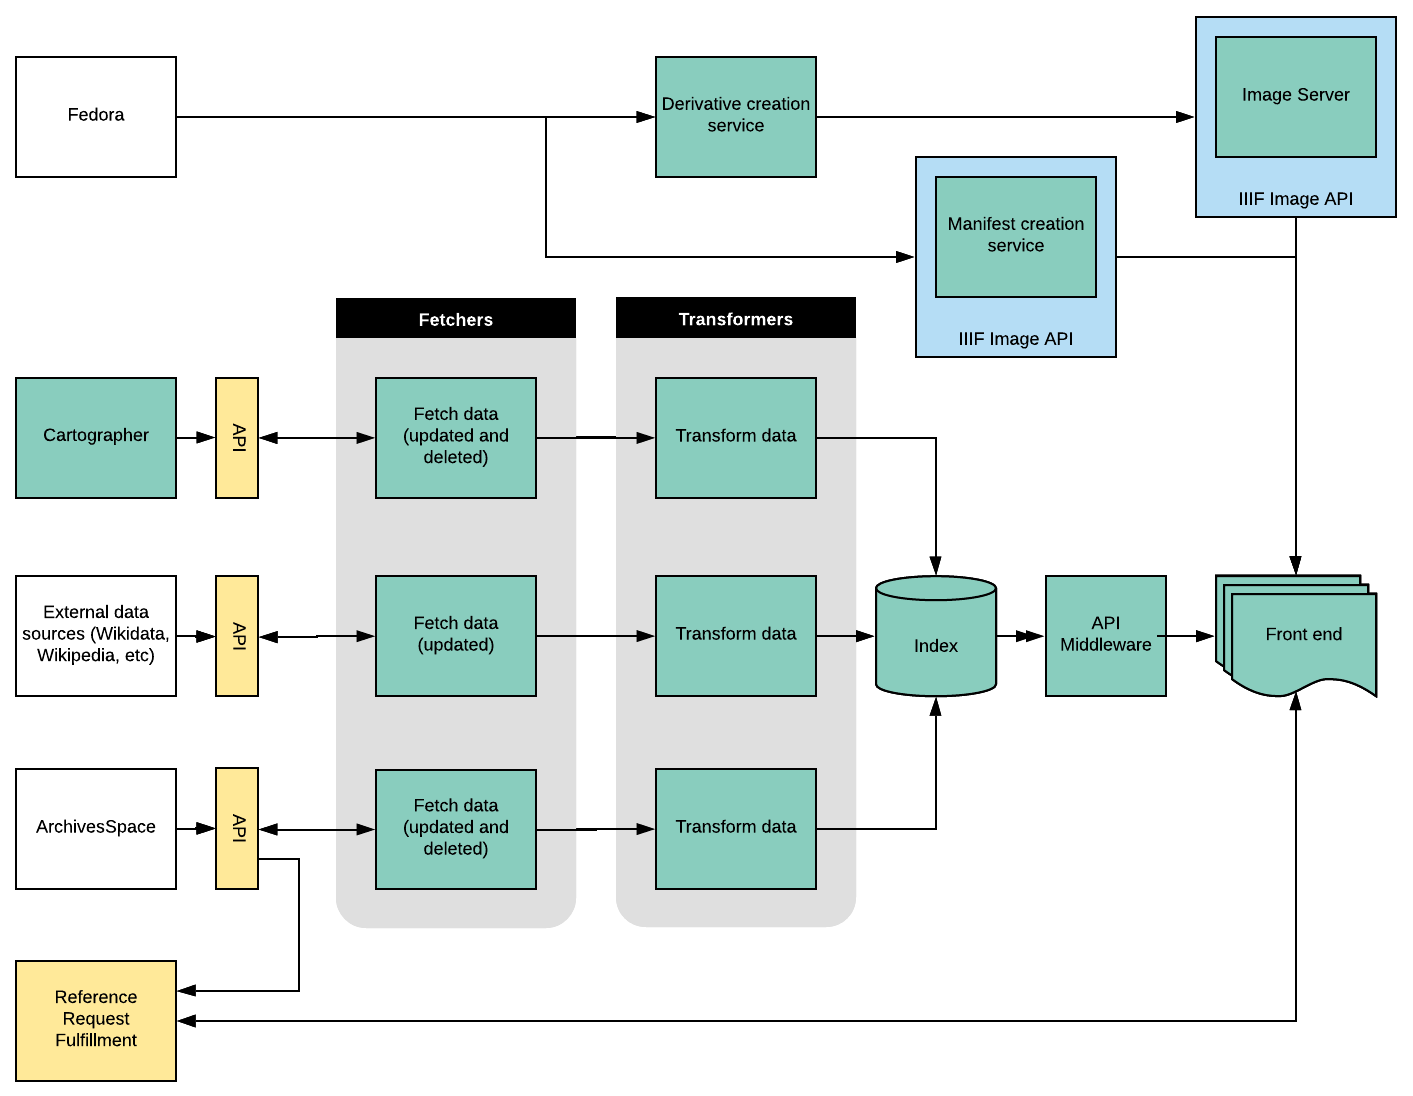
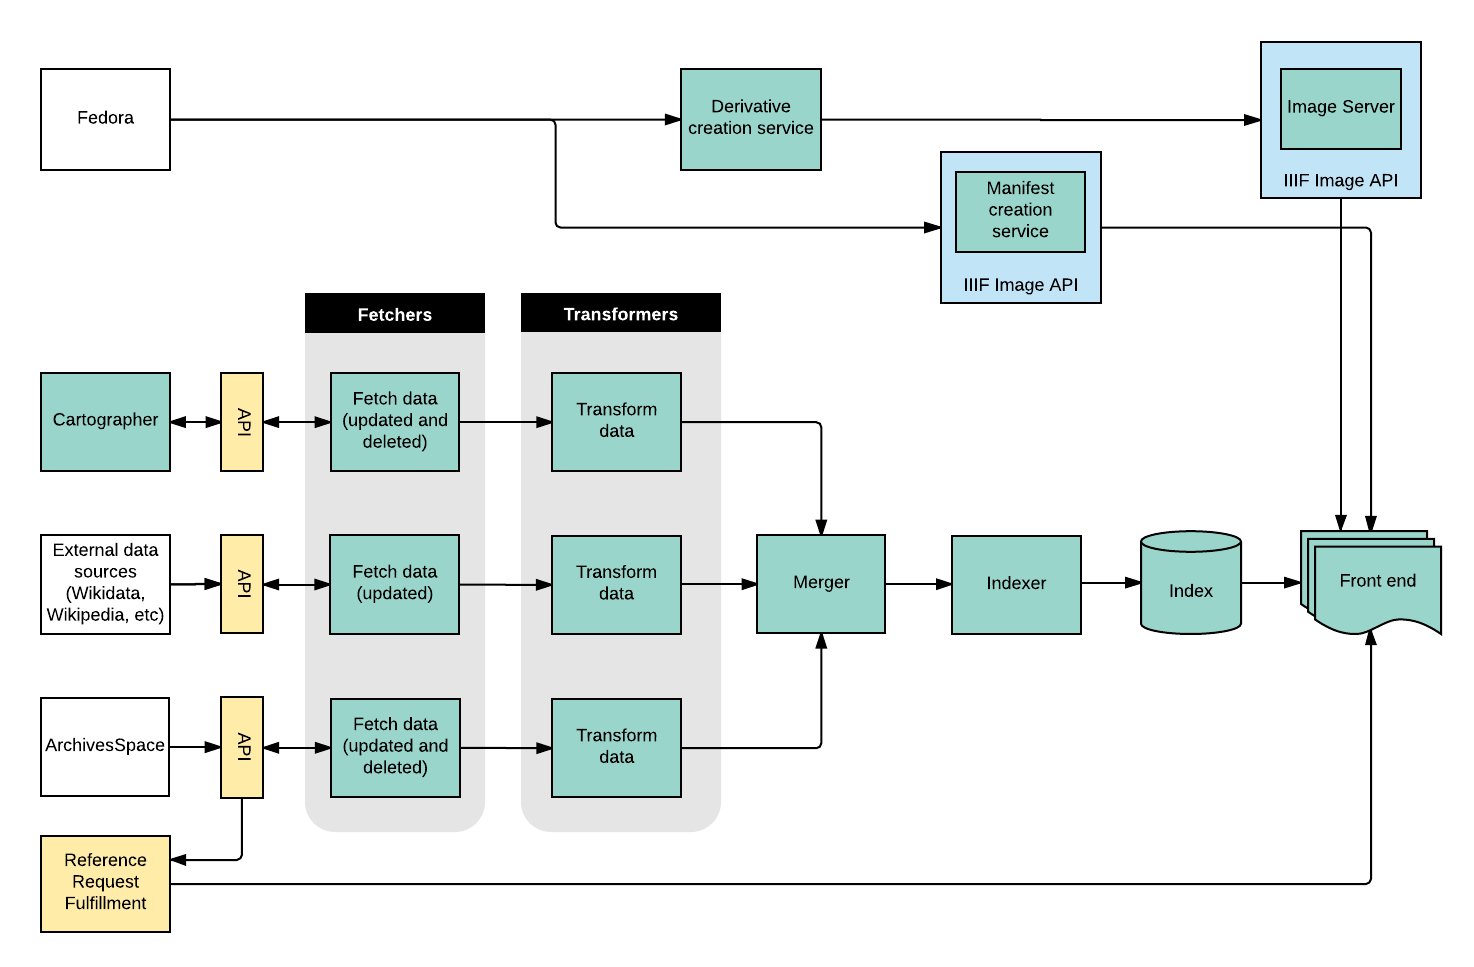
add mergers and update diagrams

diff --git a/rfcs/001-discovery-and-delivery.md b/rfcs/001-discovery-and-delivery.md
@@ -1,6 +1,6 @@
 # RFC 001: Discovery and Delivery
 
-Last updated: September 10, 2019
+Last updated: September 21, 2019
 
 ## Background
 A patchwork of systems currently supports discovery and delivery of archival records:
@@ -43,7 +43,8 @@ After conducting a review of existing third-party solutions, we realized that, a
   - Three sets of services move data between data sources and an Elasticsearch index, which will be the persistence layer for the discovery layer. These services will be built in Django and integrated with the existing Zodiac API Gateway environment, which allows us to take advantage of the messaging queue and UI within Zodiac:
     - Fetchers, which get data from data sources.
     - Transformers, which map data between predefined formats.
-    - Indexers, which add, update or delete transformed data in an index.
+    - Mergers, which merge transformed data from different sources.
+    - Indexers, which add, update or delete transformed and merged data in an index.
   - API middleware produces an API which can be used by clients to search and display data stored in the index.
   - A frontend provide a user interface to search and browse archival description, and view digitized and born-digital records.
 
@@ -61,14 +62,19 @@ After conducting a review of existing third-party solutions, we realized that, a
     - Mappings between data structures are described by Odin Mappings
   - Transform processes are triggered by fetch services
 
-#### Indexers
-  - The indexing service takes an object and either adds, updates or deletes it from the index.
-  - Related objects embedded in endpoints for other objects will be resolved by this service
-  - Persistent identifiers are created and managed by this service.
+#### Merger
+  - Looks to see if a transformed object already exists in the index and if it does, merges the two objects.
+  - Delivers the merged object to a queue to be indexed.
+
+#### Indexer
+  - The indexing service consumes an indexing queue and adds, deletes or updates Documents in bulk.
+  - Relationships to other Documents are also created or updated by this service.
+  - When necessary, this service mints persistent identifiers to be used in the index.
   - The elasticsearch-dsl library will be used for Document definitions as well as to provide a client for interacting with the Elasticsearch API.
 
-#### Formatters
-  - Serves as a formatter for returning data from Elasticsearch in the structure required by the front end.
+#### API Middleware
+  - Middleware which formats data from Elasticsearch into a more generic structure required by the frontend.
+  - Over time, other systems and services may consume this API.
   - The data returned in API responses will be determined by need; only data for which there is a specific use in the frontend will be returned. The API will therefore take a minimal approach, and data elements will be added as needed.
 
 #### Frontend
